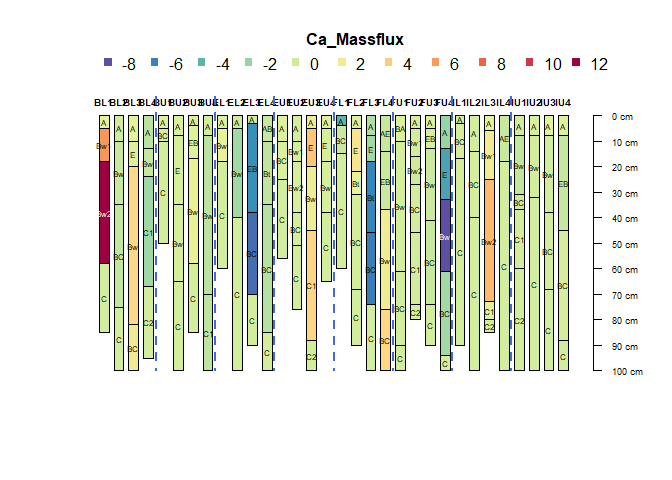
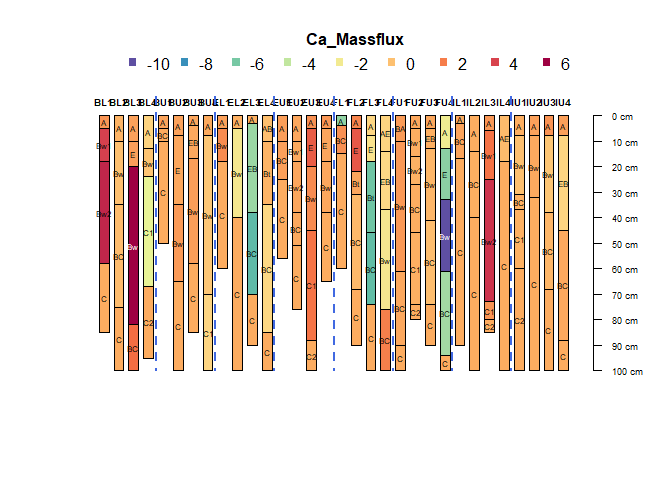
Add files via upload

Changed region(s): [[0.125, 0.2188, 0.8438, 0.7812], [0.5, 0.125, 0.9062, 0.1562], [0.1562, 0.125, 0.4688, 0.1562]]

diff --git a/R/massbalance_intro.md b/R/massbalance_intro.md
@@ -10,11 +10,7 @@ S.W. Salley
   - <a href="#strain" id="toc-strain">Strain</a>
   - <a href="#mass-transfer" id="toc-mass-transfer">Mass Transfer</a>
   - <a href="#mass-flux" id="toc-mass-flux">Mass Flux</a>
-- <a href="#test-calculaions-published-values"
-  id="toc-test-calculaions-published-values">Test Calculaions published
-  values</a>
-- <a href="#immobile-reference" id="toc-immobile-reference">Immobile
-  Reference</a>
+- <a href="#still-to-do" id="toc-still-to-do">Still to do</a>
 
 # Introduction
 
@@ -181,10 +177,11 @@ horizons based on immobile reference on soil data and where the lowest
 horizon for each pedon is considered the parent material of the soil:
 
 ``` r
-MassTransfer <- function(x, bulkdensity, iref, mobile) { 
+MassTransfer <- function(x, strain, bulkdensity, mobile) { 
   x@horizons$MassT <-profileApply(x, FUN = function(x) { 
-    ((x[[mobile]] * tail(x[[iref]], 1)) /
-    (x[[iref]] * tail(x[[mobile]], 1)) ) -1 })
+    ((x[[bulkdensity]] * x[[mobile]]/1000) /
+    (tail(x[[bulkdensity]], 1) * tail(x[[mobile]]/1000, 1)) *
+    (x[[strain]] + 1) ) -1  })
   x$MassT
 }
 ```
@@ -254,60 +251,10 @@ profileApply(h, FUN = function(x) { sum(x$Ca_Massflux) -1 })
 h$pflux <- profileApply(h, FUN = function(x) { sum(x$Ca_Massflux) -1 })
 ```
 
-# Test Calculaions published values
+# Still to do
 
-Strain
+Set up tests to determine immobile reference.
 
-``` r
-summary(lm ( h$Ti_strain ~ h$epsilon_Ti ))$r.squared # r2 = 0.9992367 (success!)
-```
-
-    ## [1] 0.9992367
-
-``` r
-plot ( x = h$Ti_strain, y = h$epsilon_Ti ) 
-```
-
-![](massbalance_intro_files/figure-gfm/unnamed-chunk-11-1.png)<!-- -->
-
-Transfer function
-
-``` r
-summary(lm ( h$tau_ca ~ h$tau_Ca_Ti ))$r.squared # r2 = 0.6716875 (hmmm...)
-```
-
-    ## [1] 0.3881817
-
-``` r
-plot ( x = h$tau_ca, y = h$tau_Ca_Ti ) 
-```
-
-![](massbalance_intro_files/figure-gfm/unnamed-chunk-12-1.png)<!-- -->
-
-Mass flux
-
-``` r
-summary(lm ( h$tau_pedon_Ca  ~ h$pflux ))$r.squared # r2 = 0.2507 (hmmm...)
-```
-
-    ## [1] 0.0876191
-
-``` r
-plot ( x = h$tau_pedon_Ca, y = h$pflux ) 
-```
-
-![](massbalance_intro_files/figure-gfm/unnamed-chunk-13-1.png)<!-- -->
-
-# Immobile Reference
-
-Titanium (Ti) and Zirconium (Zr) are typically used as immobile
-reference elements due to their stability within their host mineral
-phases and resistance against dissolution. Ti often remains enriched in
-the fine fraction and Zr enriched in the coarse silt fraction of the
-particle size distribution.
-
-Todo: Develop test. Regress the relationship between their mass transfer
-function values against percent clay and sand (Ti to Zr, and to
-texture).
-
-Also: An enrichment factor is used to test the mobility of elements and
+Write function for enrichment factor (equation 7 from Vaughan etal
+2018):
+$$ \frac{C_{ws}}{C_{pm}} = \frac{ρ_{pm}}{ρ_{ws}} * \frac{1}{ε_{i.ws}+1} * (1+τ_j,ws) $$
